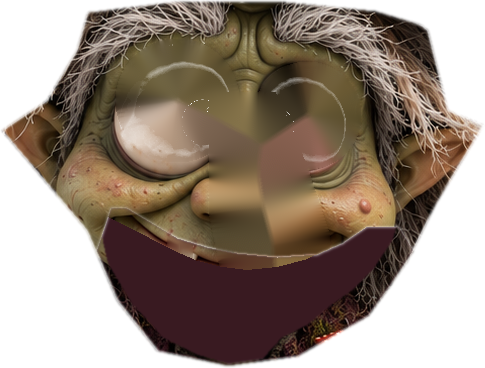
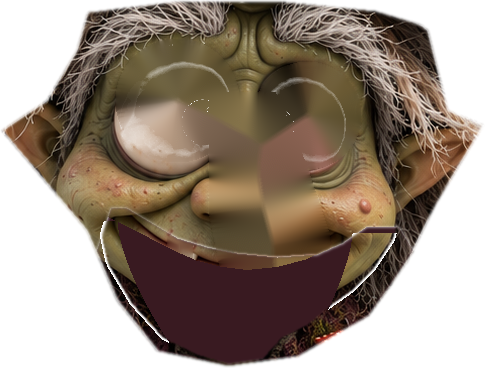
Add files via upload

Changed region(s): [[0.1856, 0.5978, 0.3402, 0.9266], [0.6804, 0.6277, 0.8351, 0.837]]

diff --git a/src/engine.js b/src/engine.js
@@ -539,7 +539,7 @@ function lipPathPainted(ctx,Mo,extra){const P=Mo.pts,x0=P[0][0],x1=P[P.length-1]
  const N=24;for(let i=N;i>=0;i--){const x=x0+(x1-x0)*i/N;let y=P[0][1];for(let j=1;j<P.length;j++){if(x<=P[j][0]){const a=P[j-1],b=P[j];y=a[1]+(b[1]-a[1])*(x-a[0])/(b[0]-a[0]);break;}else if(j===P.length-1)y=b===undefined?P[j][1]:P[j][1];}
   ctx.lineTo(x,y+extra*prof(x)+(extra>0?2:0));}
  ctx.closePath();}
-let JAWCOLS=null;
+let JAWCOLS=null;const JSTRIP=2;
 function buildJawCols(){const L=RASTER['w-jaw'],src=L.src,sw=src.width,sh=src.height,fL=0.2,fR=0.2,fade=Math.round(sw*0.06);
  const mk=(x0,x1,fadeL,fadeR)=>{const c=document.createElement('canvas');c.width=x1-x0;c.height=sh;const x=c.getContext('2d');x.drawImage(src,x0,0,x1-x0,sh,0,0,x1-x0,sh);
   if(!fadeL&&!fadeR)return c;const y0=Math.round(sh*0.42),m=document.createElement('canvas');m.width=c.width;m.height=sh;const mx=m.getContext('2d');mx.fillStyle='#000';mx.fillRect(0,0,c.width,y0);   // lip zone opaque
@@ -548,13 +548,17 @@ function buildJawCols(){const L=RASTER['w-jaw'],src=L.src,sw=src.width,sh=src.he
  const xL=Math.round(sw*fL),xR=Math.round(sw*(1-fR));
  const topRow=c=>{const d=c.getContext('2d').getImageData(0,0,c.width,c.height).data;for(let y=0;y<c.height;y++){for(let x=0;x<c.width;x++)if(d[(y*c.width+x)*4+3]>40)return y;}return 0;};
  const left=mk(0,xL+fade,false,true),mid=mk(xL,xR,false,false),right=mk(xR-fade,sw,true,false);
- JAWCOLS={left,mid,right,xL,xR,fade,sw,sh,topL:topRow(left),topR:topRow(right)};}
-function drawJawStretched(ctx,P){const L=RASTER['w-jaw'];if(!JAWCOLS)buildJawCols();const J=JAWCOLS,drop=P['jaw.drop']*ART.jawTravel,[rx,ry,rw,rh]=L.rig,k=rw/J.sw;
- ctx.drawImage(J.mid,rx+J.xL*k,ry+drop,J.mid.width*k,rh);                 // lips + chin, dropped (opaque)
- // jowls: anchor the stretch at each column's own visible top edge so the lip line never pulls away from the head
- const tL=J.topL,tR=J.topR;
- ctx.drawImage(J.left,0,tL,J.left.width,J.sh-tL,rx,ry+tL*k,J.left.width*k,(J.sh-tL)*k+drop);
- ctx.drawImage(J.right,0,tR,J.right.width,J.sh-tR,rx+(J.xR-J.fade)*k,ry+tR*k,J.right.width*k,(J.sh-tR)*k+drop);
+ JAWCOLS={src,left,mid,right,xL,xR,fade,sw,sh,topL:topRow(left),topR:topRow(right)};}
+function drawJawStretched(ctx,P){const L=RASTER['w-jaw'];if(!JAWCOLS)buildJawCols();const J=JAWCOLS,drop=P['jaw.drop']*ART.jawTravel,[rx,ry,rw,rh]=L.rig,k=rw/J.sw,Mo=ART.mouth;
+ // Continuous warp: every 4px strip of the jaw moves by its own amount. Top edge follows the lens profile (0 at the mouth corners, full in the middle),
+ // the bottom (chin/jawline) follows a broader profile, so there are no column seams anywhere.
+ if(!J.tops){const x=J.src.getContext('2d'),d=x.getImageData(0,0,J.sw,J.sh).data;J.tops=[];for(let sx=0;sx<J.sw;sx+=JSTRIP){let t=J.sh-1;for(let y=0;y<J.sh&&t===J.sh-1;y++){for(let xx=sx;xx<Math.min(J.sw,sx+JSTRIP);xx++)if(d[(y*J.sw+xx)*4+3]>40){t=y;break;}}J.tops.push(t);}}
+ const cl=Mo.cl[0],cr=Mo.cr[0],ss=(e0,e1,v)=>{const q=clamp((v-e0)/(e1-e0),0,1);return q*q*(3-2*q);};
+ for(let n=0,sx=0;sx<J.sw;sx+=JSTRIP,n++){const w=Math.min(JSTRIP,J.sw-sx),cx=rx+(sx+w/2)*k,t=(cx-cl)/(cr-cl);
+  const a=t>0&&t<1?Math.pow(Math.sin(Math.PI*t),0.6):0;
+  const u=(cx-rx)/rw,bb=0.35+0.65*ss(0.0,0.45,u)*ss(0.0,0.45,1-u)*1.0+0*u;   // bottom edge: full drop in the middle, easing to 35% at the ends
+  const top=J.tops[n],dy=ry+top*k+drop*a,dh=(J.sh-top)*k+drop*(Math.min(1,bb)-a);
+  if(dh<=0)continue;ctx.drawImage(J.src,sx,top,w,J.sh-top,rx+sx*k,dy,w*k+0.8,dh);}
 }
 function drawMouthPlate(ctx,P){const Mo=ART.mouth,K=MOUTHKIT.pieces;if(!Mo.cl)return;const drop=P['jaw.drop']*ART.jawTravel;if(drop<3)return;ctx.save();lipPathPainted(ctx,Mo,drop+16);ctx.clip();if(!JAWCOLS&&RASTER['w-jaw'])buildJawCols();if(JAWCOLS){const L=RASTER['w-jaw'],k=L.rig[2]/JAWCOLS.sw,x0=L.rig[0]+JAWCOLS.xL*k,x1=L.rig[0]+JAWCOLS.xR*k;ctx.beginPath();ctx.rect(x0,Mo.cl[1]-20,x1-x0,ART.jawTravel+80);ctx.clip();}
  ctx.drawImage(K.interior,Mo.cl[0]-14,Mo.cl[1]-6,(Mo.cr[0]-Mo.cl[0])+28,ART.jawTravel+60);ctx.restore();}

diff --git a/src/hunt.js b/src/hunt.js
@@ -11,8 +11,8 @@ const HUNT={id:'haunted-block-2026',title:'The Block Is Haunted',
    clue:"He steals first bites where the hot dogs steam —\nRight where you walked in. Go make him scream.",
    capture:"GOTCHA! Into the jar, mustard-breath! …He brought a hot dog in with him. Fine."},
   {n:2,code:'hb2',name:'Eatery by the Stairs',ghost:'snacker',accent:'#d84a3a',prop:'fork',color:'#24262f',
-   clue:"She haunts where the hungry climb up to eat —\nTake the stairs to the food. Careful — she bites feet.",
-   capture:"Caught her on the stairs mid-snack! In you go. Watch the feet, everyone."},
+   clue:"At the bottom of the stairs, where the hungry go to eat —\nDon't climb, that's the bar. Careful — she bites feet.",
+   capture:"Caught her at the bottom of the stairs, mid-snack! In you go. Watch the feet, everyone."},
   {n:3,code:'hb3',name:'The Block Collective',ghost:'browser',accent:'#3fb8b0',prop:'tag',color:'#2a2a24',
    clue:"Fifteen shops, one roof, and one ghost with a plan —\nShe's tidying the shelves. Catch her if you can.",
    capture:"The Browser! Fifteen shops will finally stay TIDY. Into the jar, shopaholic."},
